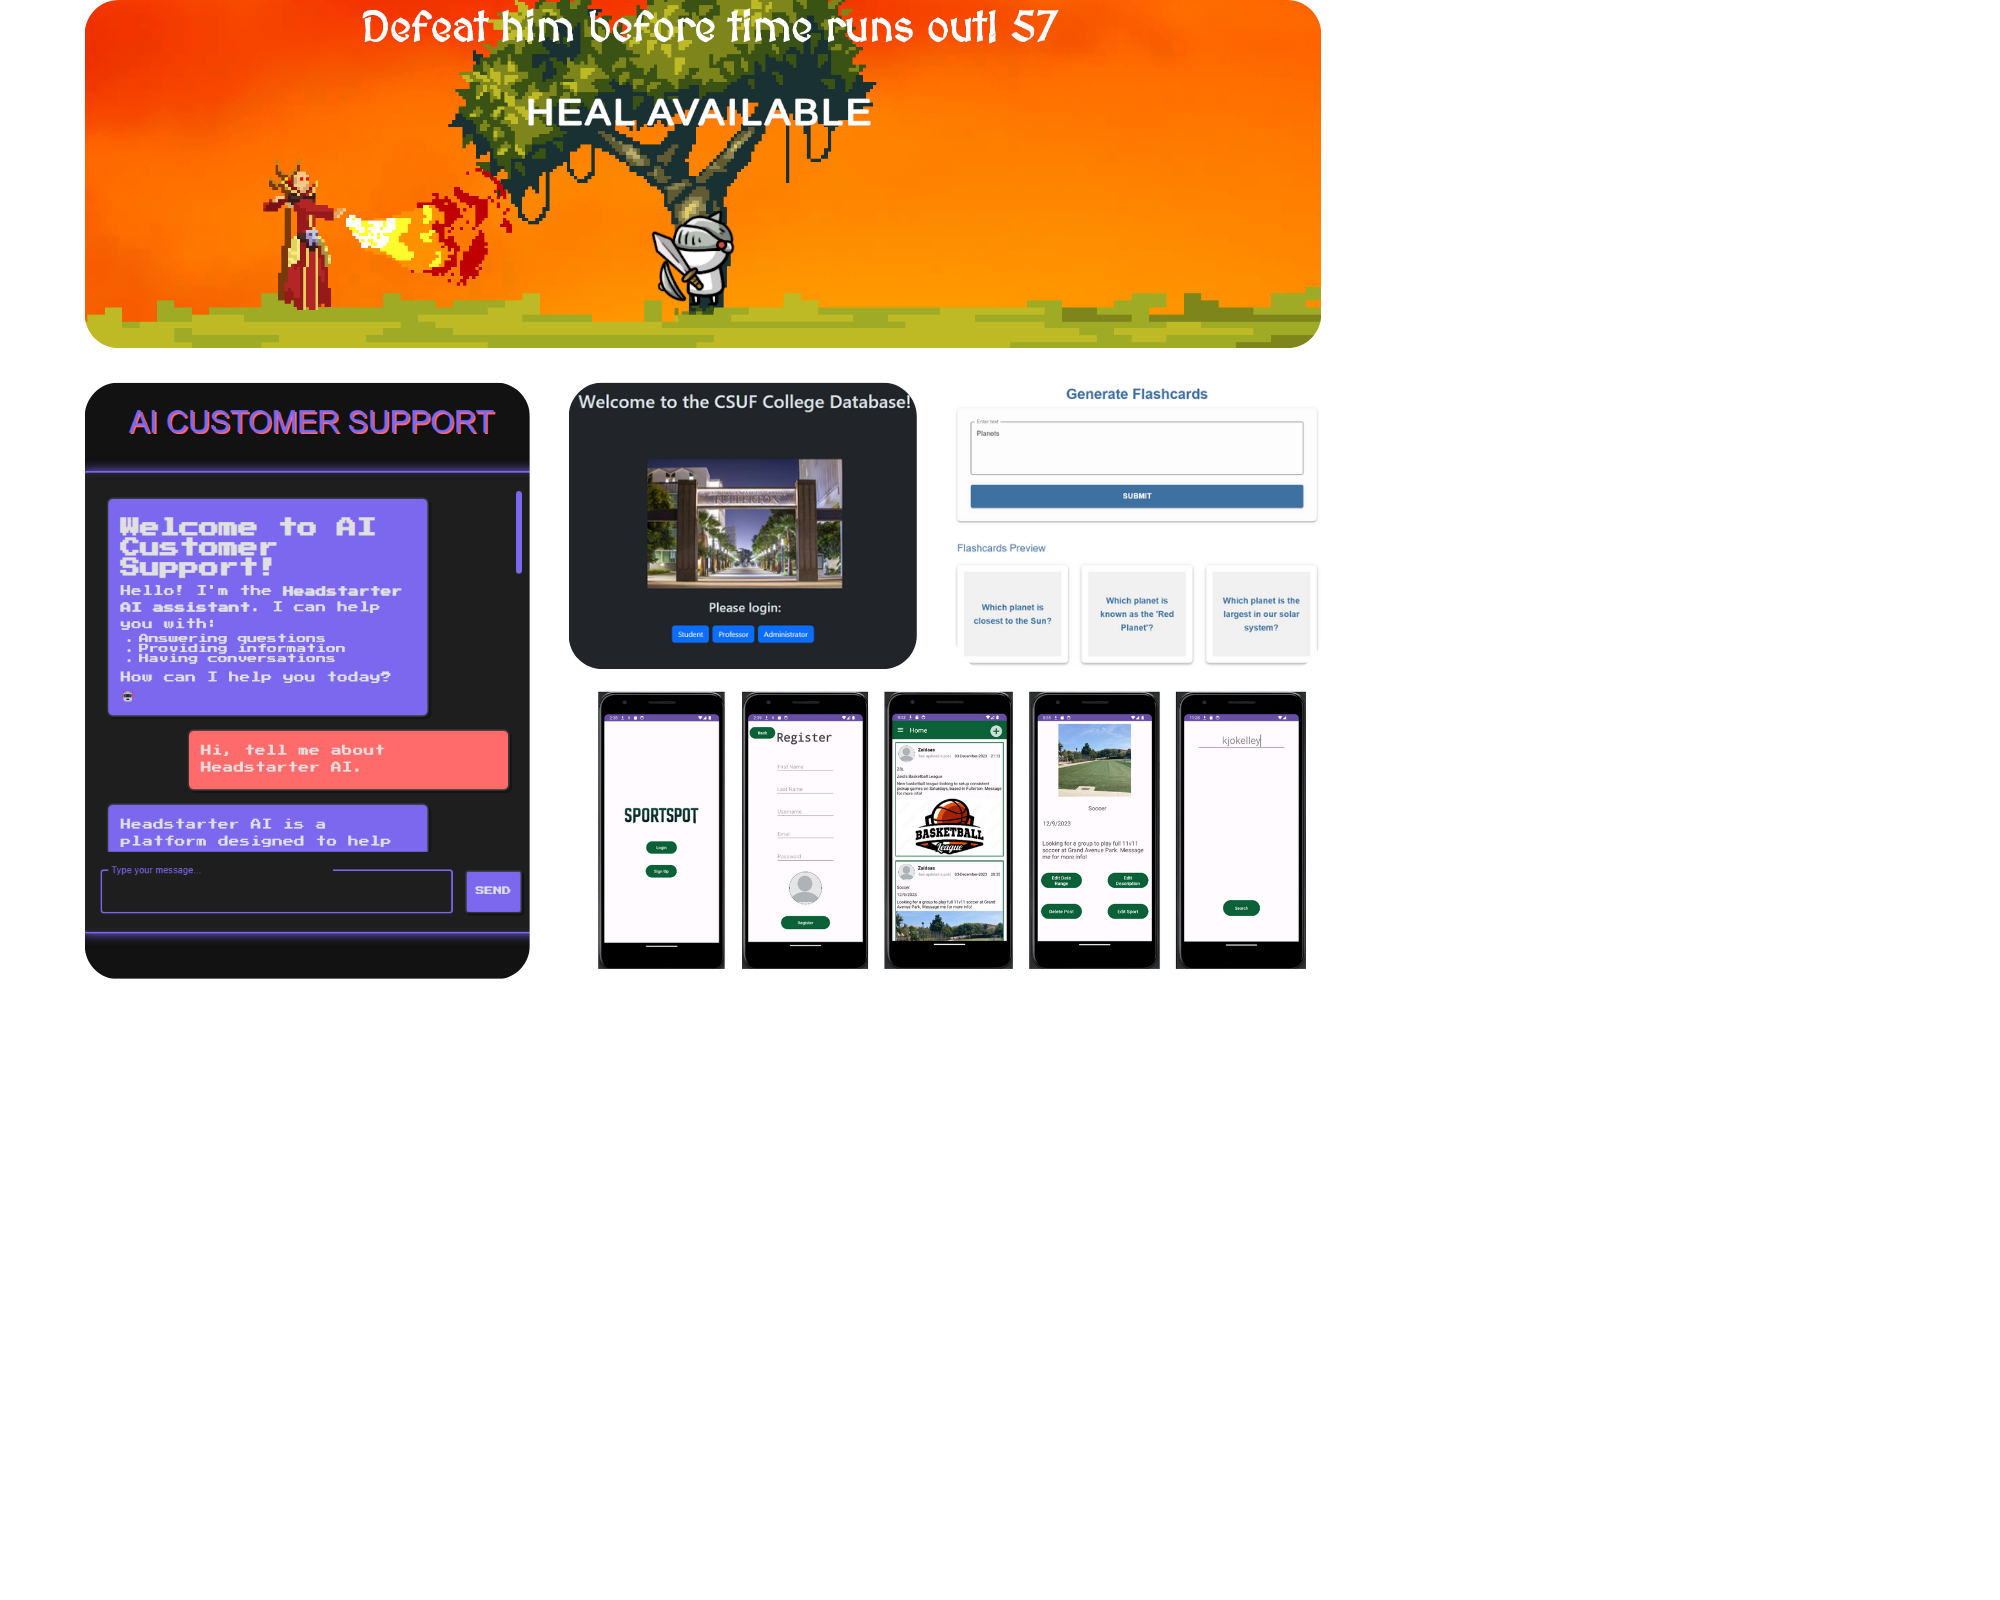
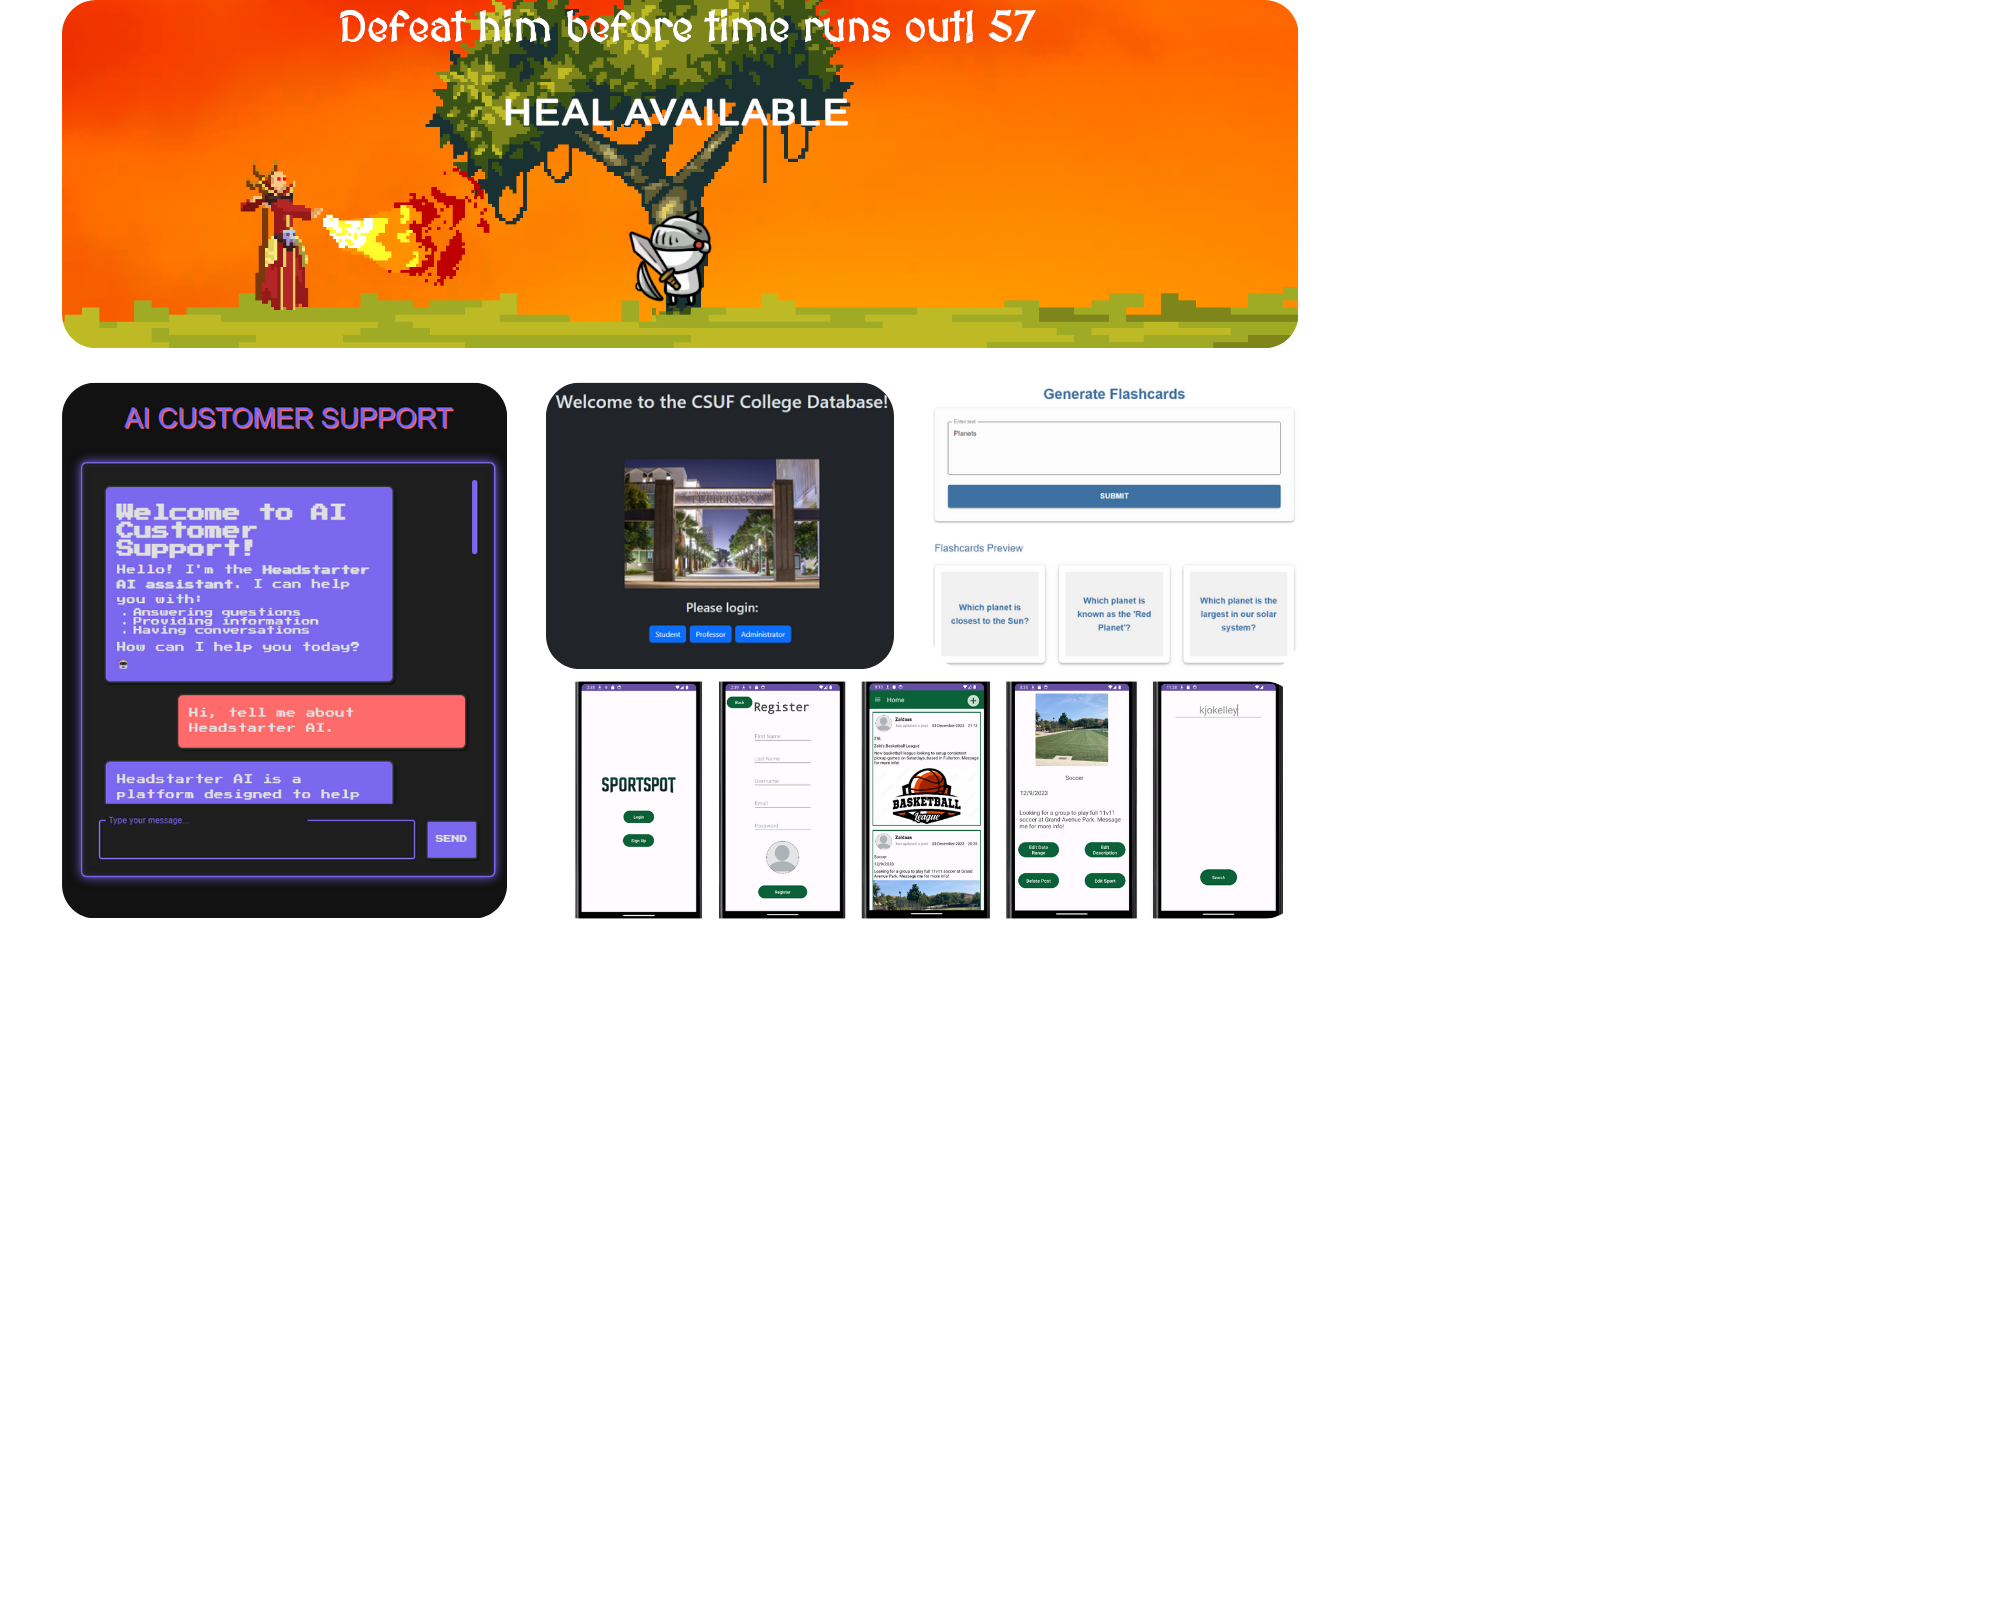
Copyright added and formatted project collage pic as well as brokeredge pic

Changed region(s): [[0.031, 0.0, 0.651, 0.625], [0.496, 0.0, 0.682, 0.25], [0.62, 0.2812, 0.651, 0.3125]]

diff --git a/experience.html b/experience.html
@@ -100,7 +100,7 @@
 												</a>
 												</div>
 												<div class="col-8 col-12-xsmall">
-												<a class="image fit" style="max-width: 710px; display:block; margin: 0 auto;">
+												<a class="image fit" style="max-width: 705px; display:block; margin: 0 auto;">
 													<img src="images/Brokeredge.jpg"/>
 												</a>
 												</div>
@@ -135,6 +135,7 @@
 						<li><a href="mailto: aldaaszeid@yahoo.com" class="icon solid alt fa-envelope"><span class="label">Email</span></a></li>
 					</ul>
 					<ul class="copyright">
+						<li>© 2025 Zeid Aldaas. All rights reserved.</li>
 						<li>Design: <a href="http://html5up.net">HTML5 UP</a></li>
 					</ul>
 				</footer>

diff --git a/index.html b/index.html
@@ -149,6 +149,7 @@
 						<li><a href="mailto: aldaaszeid@yahoo.com" class="icon solid alt fa-envelope"><span class="label">Email</span></a></li>
 					</ul>
 					<ul class="copyright">
+						<li>© 2025 Zeid Aldaas. All rights reserved.</li>
 						<li>Design: <a href="http://html5up.net">HTML5 UP</a></li>
 					</ul>
 				</footer>

diff --git a/projects.html b/projects.html
@@ -122,6 +122,7 @@
 						<li><a href="mailto: aldaaszeid@yahoo.com" class="icon solid alt fa-envelope"><span class="label">Email</span></a></li>
 					</ul>
 					<ul class="copyright">
+						<li>© 2025 Zeid Aldaas. All rights reserved.</li>
 						<li>Design: <a href="http://html5up.net">HTML5 UP</a></li>
 					</ul>
 				</footer>

diff --git a/contact.html b/contact.html
@@ -76,6 +76,7 @@
 						<li><a href="mailto: aldaaszeid@yahoo.com" class="icon solid alt fa-envelope"><span class="label">Email</span></a></li>
 					</ul>
 					<ul class="copyright">
+						<li>© 2025 Zeid Aldaas. All rights reserved.</li>
 						<li>Design: <a href="http://html5up.net">HTML5 UP</a></li>
 					</ul>
 				</footer>
